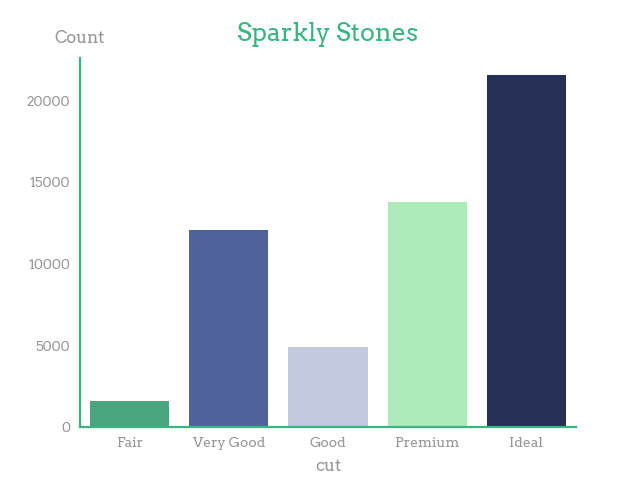
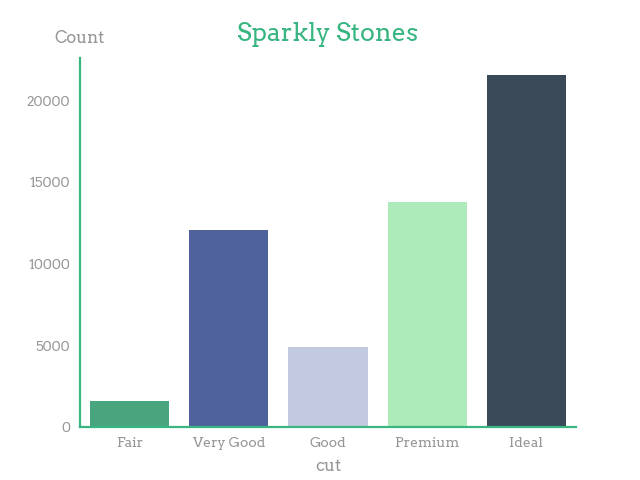
merging linelegend with legend

Changed region(s): [[0.75, 0.1562, 0.9062, 0.9062]]

diff --git a/rootsstyle/__main__.py b/rootsstyle/__main__.py
@@ -7,15 +7,16 @@ import numpy as np
 from pathlib import Path
 import matplotlib as mpl
 import matplotlib.pyplot as plt
+from .utils import is_line_plot
 import matplotlib.font_manager as fm
 
 colors = {
     "green_light": "#A3F6B4",
-    "green_bright": "#3DF29A",
+    "green_bright": "#48DF88",
     "green_dark": "#38B580",
     "blue_light": "#BFC6E2",
     "blue_dark": "#445BA7",
-    "blue_navy": "#1E2B5F",
+    "blue_navy": "#34495D",
     "black": "#212121",
     "gray": "#969696",
     "gray_light": "#C0C2C2",
@@ -32,30 +33,21 @@ fm.fontManager.ttflist.extend(font_entries)
 
 # SOURCE: https://matplotlib.org/stable/tutorials/introductory/customizing.html#a-sample-matplotlibrc-file
 style = {
-    # FONT
+    ## ***************************************************************************
+    ## * FONT                                                                    *
+    ## ***************************************************************************
     "font.family": "Arvo",
-    # TITLE
-    "axes.titlelocation": "center",
-    "axes.titlesize": 18,
-    "axes.titlepad": 12,
-    "axes.titlecolor": colors["green_dark"],
-    # LABELS
-    "axes.labelsize": 12,
-    "axes.labelpad": 6,
-    "axes.labelcolor": colors["gray"],
-    # TICKS
+    ## ***************************************************************************
+    ## * TICKS                                                                   *
+    ## ***************************************************************************
     "xtick.major.width": 0,
     "ytick.major.width": 0,
     "xtick.color": colors["gray"],
     "ytick.color": colors["gray"],
-    # AXES
-    "axes.linewidth": 1.6,
-    "axes.edgecolor": colors["green_dark"],
-    "axes.spines.top": False,
-    "axes.spines.right": False,
-    # LEGEND
-    "legend.framealpha": 0,
-    # COLORS
+    ## ***************************************************************************
+    ## * AXES                                                                    *
+    ## ***************************************************************************
+    # DATA COLORS
     "axes.prop_cycle": mpl.cycler(
         color=[
             colors["green_dark"],
@@ -69,45 +61,83 @@ style = {
             colors["black"],
         ],
     ),
+    # EDGES
+    "axes.linewidth": 1.6,
+    "axes.edgecolor": colors["green_dark"],
+    "axes.spines.top": False,
+    "axes.spines.right": False,
+    # TITLE
+    "axes.titlelocation": "center",
+    "axes.titlesize": 18,
+    "axes.titlepad": 12,
+    "axes.titlecolor": colors["green_dark"],
+    # LABELS
+    "axes.labelsize": 12,
+    "axes.labelpad": 6,
+    "axes.labelcolor": colors["gray"],
+    ## ***************************************************************************
+    ## * LEGEND                                                                  *
+    ## ***************************************************************************
+    "legend.frameon": False,
+    ## ***************************************************************************
+    ## * SAVING FIGURES                                                          *
+    ## ***************************************************************************
+    "savefig.transparent": True,
 }
 
 
 # Inspiration: https://github.com/nschloe/dufte
-def legend_line():
-    ax = plt.gca()
-    lines = [child for child in ax.get_children() if type(child) == mpl.lines.Line2D]
-    if len(lines) == 0:
-        return
-    # Removing existing legend
+# Inspiration: https://github.com/matplotlib/matplotlib/blob/main/lib/matplotlib/legend.py
+def _legend_line(ax, labels=None):
+    # Removing existing legend (e.g. default of seaborn)
     if ax.legend_ is not None:
         ax.legend_ = None
-    labels = [line.get_label() for line in lines]
-    colors = [line.get_color() for line in lines]
 
-    last_y = [line.get_ydata()[~np.isnan(line.get_ydata())][-1] for line in lines]
-    last_x = [line.get_xdata()[~np.isnan(line.get_xdata())][-1] for line in lines]
+    handles = [h for h in mpl.legend._get_legend_handles([ax]) if type(h) == mpl.lines.Line2D]
+    colors = [line.get_color() for line in handles]
+    if labels is None:
+        labels = [line.get_label() for line in handles]
+
+    last_y = [line.get_ydata()[~np.isnan(line.get_ydata())][-1] for line in handles]
+    last_x = [line.get_xdata()[~np.isnan(line.get_xdata())][-1] for line in handles]
     targets = [(x * 1.03, y) for x, y in zip(last_x, last_y)]
 
     for label, (x, y), color in zip(labels, targets, colors):
         plt.text(x, y, label, verticalalignment="center", color=color)
 
 
-def legend(title=None):
+def legend(handles=None, labels=None, title: str = None):
     """Displays the legend to the left of the plot.
     For lineplots, displays each line legend next to the line.
+
+    Args:
+        handles (list[mpl.artist.Artist], optional): A list of Artists (lines, patches) to be added to the legend. Defaults to None.
+        labels (list[str], optional): A list of labels to show next to the artists.. Defaults to None.
+        title (str, optional): The legend's title. Defaults to None.
     """
     ax = plt.gca()
-    box = ax.get_position()
-    ax.set_position([box.x0, box.y0, box.width * 0.8, box.height])
+    # Check for existing title
     if ax.legend_ is not None:  # e.g. seaborn already set legend
-        existing_title = ax.legend_.get_title()._text
-        title = title or existing_title
-    legend = ax.legend(title=title, loc="center left", bbox_to_anchor=(1, 0.5))
-    [text.set_color(colors["gray"]) for text in legend.get_texts()]
-    # For seaborn plots, update title
-    legend.get_title().set_color(colors["gray"])
-    if title is not None:
-        legend.set_title(title)
+        title = title or ax.legend_.get_title().get_text()
+        labels = labels or [t.get_text() for t in ax.legend_.get_texts()]
+        handles = handles or ax.legend_.legendHandles
+
+    if is_line_plot(ax, labels):
+        _legend_line(ax, labels)
+    else:
+        # Shrink box to fit legend to the right
+        box = ax.get_position()
+        ax.set_position([box.x0, box.y0, box.width * 0.8, box.height])
+        # Set legend
+        legend = ax.legend(
+            handles=handles,
+            labels=labels,
+            title=title,
+            loc="center left",
+            bbox_to_anchor=(1, 0.5),
+        )
+        [text.set_color(colors["gray"]) for text in legend.get_texts()]
+        legend.get_title().set_color(colors["gray"])
 
 
 # Inspiration: https://github.com/nschloe/dufte

diff --git a/tests/test_rootsstyle.py b/tests/test_rootsstyle.py
@@ -9,6 +9,19 @@ def test_version():
     assert rootsstyle.__version__ == "0.1.2"
 
 
+def test_empty_plot():
+    with plt.style.context(rootsstyle.style):
+        plt.plot([], [], linestyle="none")
+        plt.title("Empty scatterplot")
+        assert plt.gcf().number == 1
+        plt.close()
+
+        plt.plot([], [])
+        plt.title("Empty lineplot")
+        assert plt.gcf().number == 1
+        plt.close()
+
+
 def test_scatterplot():
     nb_series = len(rootsstyle.colors)
     nb_dots = 100//nb_series
@@ -27,7 +40,7 @@ def test_scatterplot():
         rootsstyle.ylabel("Value")
         rootsstyle.legend()
         assert plt.gcf().number == 1
-        plt.savefig(f"{output_dir}/scatterplot.png", transparent=True)
+        plt.savefig(f"{output_dir}/scatterplot.png")
         plt.close()
 
 
@@ -46,7 +59,7 @@ def test_barplot_seaborn():
         rootsstyle.ylabel("Total bill [$]")
         rootsstyle.legend()
         assert plt.gcf().number == 1
-        plt.savefig(f"{output_dir}/barplot_tips.png", transparent=True)
+        plt.savefig(f"{output_dir}/barplot_tips.png")
         plt.close()
 
 
@@ -69,7 +82,7 @@ def test_barplot_seaborn2():
         rootsstyle.ylabel("Cut")
         plt.ylabel("Count")
         assert plt.gcf().number == 1
-        plt.savefig(f"{output_dir}/barplot_sparklystones.png", transparent=True)
+        plt.savefig(f"{output_dir}/barplot_sparklystones.png")
         plt.close()
 
 
@@ -87,9 +100,21 @@ def test_lineplot_seaborn():
         plt.title("Restaurant income")
         plt.xlabel("Day")
         rootsstyle.ylabel("USD")
-        rootsstyle.legend_line()
+        rootsstyle.legend()
         assert plt.gcf().number == 1
-        plt.savefig(f"{output_dir}/lineplot.png", transparent=True)
+        plt.savefig(f"{output_dir}/lineplot.png")
+        plt.close()
+
+    
+    with plt.style.context(rootsstyle.style):
+        sns.lineplot(x="day", y="total_bill", data=tips)
+        sns.lineplot(x="day", y="tip", data=tips)
+        plt.title("Restaurant income")
+        plt.xlabel("Day")
+        rootsstyle.ylabel("USD")
+        rootsstyle.legend(labels=['total bill', 'tip'])
+        assert plt.gcf().number == 1
+        plt.savefig(f"{output_dir}/lineplot_2.png")
         plt.close()
 
 
@@ -102,5 +127,5 @@ def test_violin_plot():
         rootsstyle.ylabel("USD")
         rootsstyle.legend()
         assert plt.gcf().number == 1
-        plt.savefig(f"{output_dir}/violinplot.png", transparent=True)
+        plt.savefig(f"{output_dir}/violinplot.png")
         plt.close()

diff --git a/rootsstyle/utils.py b/rootsstyle/utils.py
@@ -1,0 +1,39 @@
+import numpy as np
+import matplotlib as mpl
+
+# pyplot.legend() -> gca().legend()
+# axes.legend() -> legend._parse_legend_args()
+# legend._parse_legend_args() -> labels!=None and handles==None:
+
+
+def get_line_handles(ax):
+    return [
+        h for h in mpl.legend._get_legend_handles([ax]) if type(h) == mpl.lines.Line2D
+    ]
+
+
+def is_line_plot(ax: mpl.axes.Axes, labels) -> bool:
+    """Determines whether the plot is a pure line plot or if it contains other types of data visualizations.
+
+    Args:
+        ax (mpl.axes.Axes): Axes object of the graph
+
+    Returns:
+        bool: True if the plot is a pure lineplot, False otherwise
+    """
+    handles = get_line_handles(ax)
+    if len(handles) == 0:
+        return False  # No lines in plot
+    if labels != None and len(handles) != len(labels):
+        return (
+            False  # Some plots (e.g. violin plots also use Line2D object for some data)
+        )
+    linestyles = [h._linestyle for h in handles]
+    return "None" not in linestyles  # linestyle 'None' is used for scatterplots
+
+
+def get_handle_color(handle):
+    if type(handle) == mpl.lines.Line2D:
+        return handle.get_color()
+    if type(handle) == mpl.patches.Rectangle:
+        return handle.get_facecolor()

diff --git a/rootsstyle/__init__.py b/rootsstyle/__init__.py
@@ -1,4 +1,4 @@
-from .__main__ import style, colors, legend, legend_line, ylabel
+from .__main__ import style, colors, legend, ylabel
 
 __version__ = "0.1.2"
-__all__ = ["style", "colors", "legend", "legend_line", "ylabel"]
+__all__ = ["style", "colors", "legend", "ylabel"]

diff --git a/README.md b/README.md
@@ -54,7 +54,6 @@ with plt.style.context(rootsstyle.style):
 
 
 ## TODO
-
 ### VISUALS
 - Add more colors
 - barplots: add values in bars + remove y-axis
